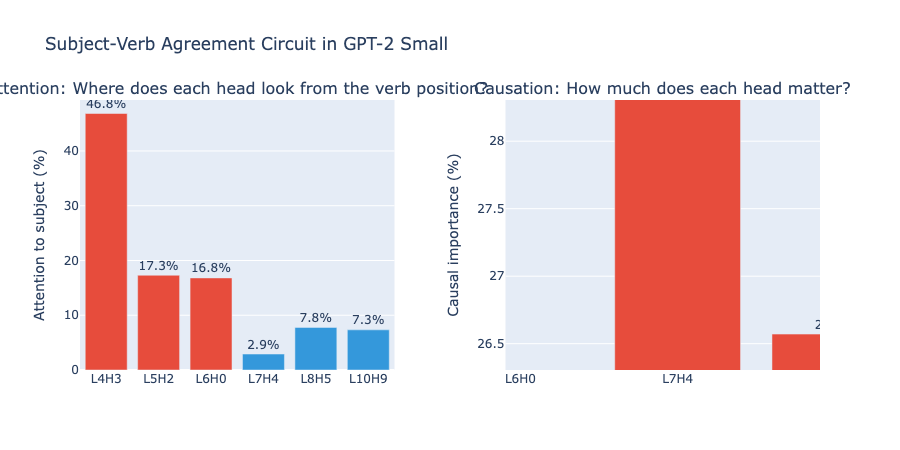
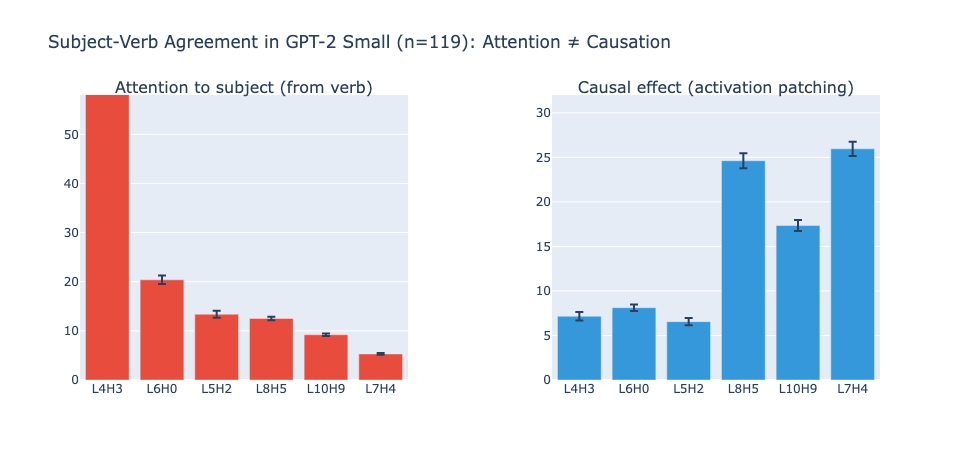
Update README to n=119 validated results and refresh attention-vs-causation figure

Changed region(s): [[0.0, 0.1556, 0.9333, 0.8711], [0.0311, 0.0622, 0.7156, 0.1244]]

diff --git a/README.md b/README.md
@@ -1,6 +1,6 @@
 # Dissecting Subject-Verb Agreement in GPT-2 Small: A Mechanistic Interpretability Study
 
-How does a language model know that "The cat that sat near the dogs **is**" requires a singular verb? This project opens up GPT-2 Small and identifies the specific attention heads responsible for subject-verb number agreement — showing that just 4 out of 144 heads account for 83% of the model's ability to match verbs to their grammatical subjects.
+How does a language model know that "The cat that sat near the dogs **is**" requires a singular verb? This project opens up GPT-2 Small and identifies the specific attention heads responsible for subject-verb number agreement. A stable 3-head core — L7H4 (26%), L8H5 (25%), and L10H9 (17%) — carries most of the causal effect, followed by a diffuse tail of smaller contributors.
 
 [![Open In Colab](https://colab.research.google.com/assets/colab-badge.svg)](https://colab.research.google.com/github/hevalsogut/mech-interp-subject-verb-agreement/blob/main/mech_interp_subject_verb_agreement.ipynb)
 
@@ -8,9 +8,9 @@ How does a language model know that "The cat that sat near the dogs **is**" requ
 
 ### The Circuit
 
-We identified a sparse, functionally specialized circuit for subject-verb agreement:
+A first pass over 8 hand-written sentences (Section 6) pointed to a sparse, functionally specialized circuit for subject-verb agreement. A larger 119-sentence run (Section 9) later validated and refined these numbers — see **Robustness (n=119)** below — but the qualitative picture held:
 
-| Head      | Role                     | Causal Effect | Behavior                                                                        |
+| Head      | Role                     | Causal Effect (n=8) | Behavior                                                              |
 | --------- | ------------------------ | ------------- | ------------------------------------------------------------------------------- |
 | **L4H3**  | Subject Detector         | 11.7%         | Attends from verb → subject noun with 30–60% weight, ignoring distractors (~0%) |
 | **L7H4**  | Primary Decision Maker   | 31.3%         | Reads processed representations; pushes output toward correct verb form         |
@@ -18,19 +18,19 @@ We identified a sparse, functionally specialized circuit for subject-verb agreem
 | **L10H9** | Late Refinement          | 13.7%         | Final-stage adjustment before the unembedding layer                             |
 
 ![Causal Heatmap](figures/causal_heatmap.png)
-_Causal effect of all 144 attention heads on subject-verb agreement, averaged across 8 test sentences (Section 6). L7H4, L8H5, L10H9, and L4H3 stand out as the dominant contributors._
+_Causal effect of all 144 attention heads on subject-verb agreement, averaged across 8 test sentences (Section 6). In this first pass L7H4, L8H5, and L10H9 stand out as the dominant contributors; L4H3 ranked 4th here but drops to ~6th in the larger n=119 run (see Robustness below)._
 
 ### Attention ≠ Importance
 
 One of the most striking findings: **the head that looks at the subject most is not the head that matters most.**
 
-- L4H3 puts 46.8% of its attention on the subject — but contributes only 11.7% of the causal effect.
-- L7H4 puts just 2.9% of its attention on the subject — yet contributes 31.3% of the causal effect.
+- L4H3 puts 46.8% of its attention on the subject — but contributes only 11.7% of the causal effect (first-pass, n=8; see Robustness (n=119) below).
+- L7H4 puts just 2.9% of its attention on the subject — yet contributes 31.3% of the causal effect (first-pass, n=8; see Robustness (n=119) below).
 
 This happens because L7H4 doesn't need to look at the subject directly. Earlier heads (L4H3) have already written subject-number information into the residual stream. L7H4 reads that processed information from structural positions like relative pronouns and prepositions, then translates it into the correct verb prediction. Information flows through the residual stream, not through direct token-to-token attention.
 
 ![Attention vs Causation](figures/attention_vs_causation.png)
-_Side-by-side comparison (Section 8): attention paid to the subject vs. actual causal importance for each key head. L4H3 dominates attention; L7H4 dominates causation._
+_Side-by-side comparison on the validated n=119 set (Section 9), with SEM error bars: attention paid to the subject vs. actual causal importance for each key head. L4H3 dominates attention yet ranks low on causal effect; L7H4 barely attends to the subject yet dominates causation._
 
 ### Sparsity
 
@@ -38,6 +38,15 @@ Out of 144 total attention heads, 140 contribute less than 5% each. The model co
 
 ![Attention Patterns](figures/attention_patterns.png)
 _CircuitsVis attention pattern visualization for one of the key subject-tracking heads (Section 2/3)._
+
+### Robustness (n=119)
+
+To check that the first pass wasn't an artifact of eight hand-picked sentences, we scaled up to **119 balanced minimal pairs** (60 "is" / 59 "are"), each pair differing only in the subject's number (Section 9).
+
+- **Balanced baseline.** The model reaches 99.2% baseline accuracy across both agreement directions, ruling out a simple "is"-bias.
+- **A stable 3-head core.** Per-head causal effects, reported as mean ± SEM with tight error bars (±0.3–0.8%), confirm L7H4 (26%), L8H5 (25%), and L10H9 (17%) as the causal core, followed by a diffuse tail of smaller contributors.
+- **L4H3 is the subject-detector, not a decision-maker.** At n=119, L4H3 falls to ~6th by causal effect (7.2%), behind L6H0 and L10H5. It remains the head that attends most to the subject — reinforcing that the head that looks at the subject is not among the heads that decide the verb.
+- **Necessary but partially redundant.** Mean-ablating the top-4 heads drops accuracy from 99.2% to 65.0% — removing ~70% of the model's above-chance ability against a 50% chance floor — while ablating 4 random heads leaves it at 98.5%. The circuit is necessary but partially redundant, consistent with the backup heads seen in other GPT-2 circuits (e.g. IOI).
 
 ## Methodology
 